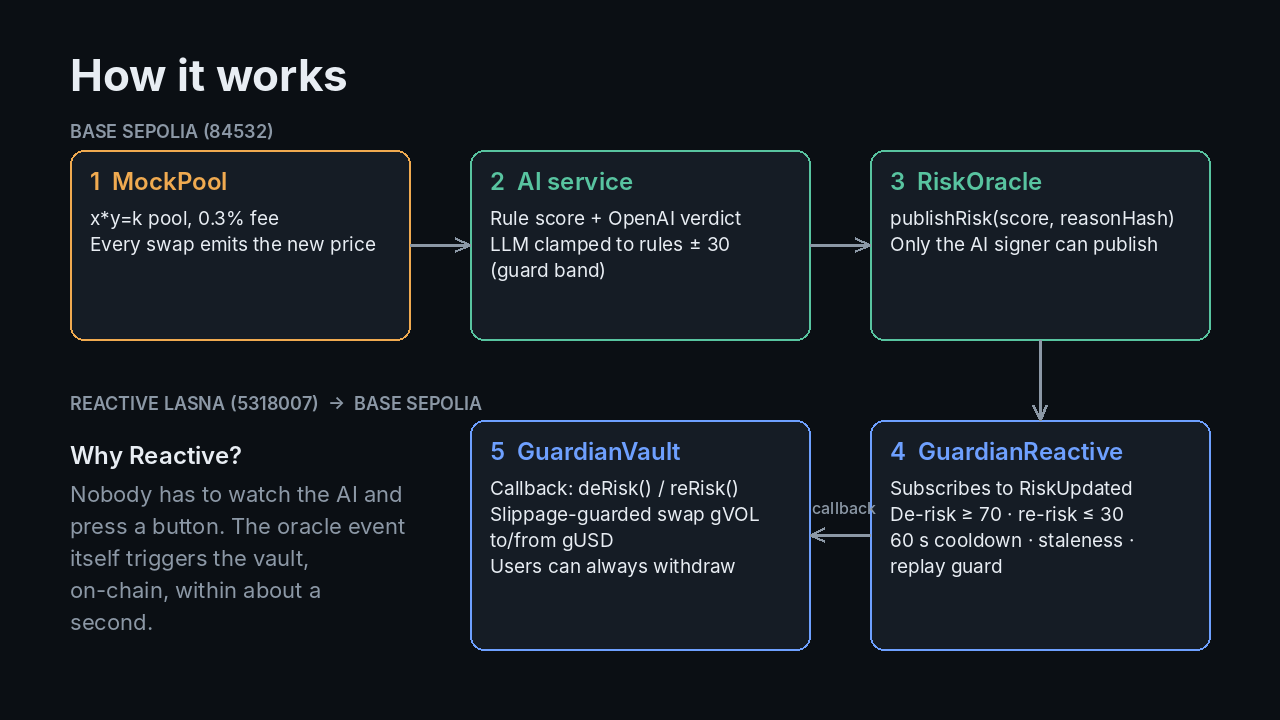
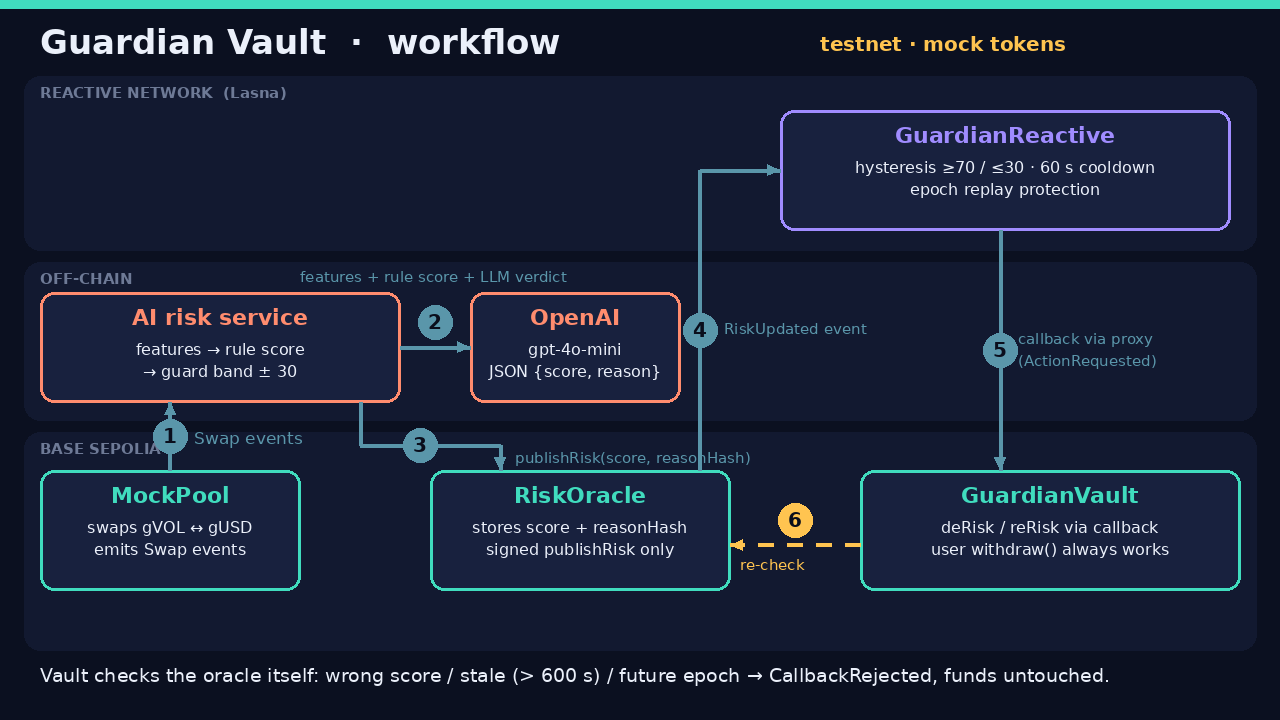
README: v2 architecture diagram and screenshots

diff --git a/README.md b/README.md
@@ -86,7 +86,7 @@ Latency is dominated by the LLM call, not by Reactive Network (the chain hop is 
 
 ### What it looks like
 
-Crash, AI verdicts (70, then 100) and the vault de-risking, left pane is the demo, right pane is the AI service:
+Crash, AI verdicts (70, then 100) and the vault de-risking, left pane is the AI service (OpenAI request and response), right pane is the demo:
 
 ![Crash and de-risk](docs/demo-crash-derisk.png)
 
